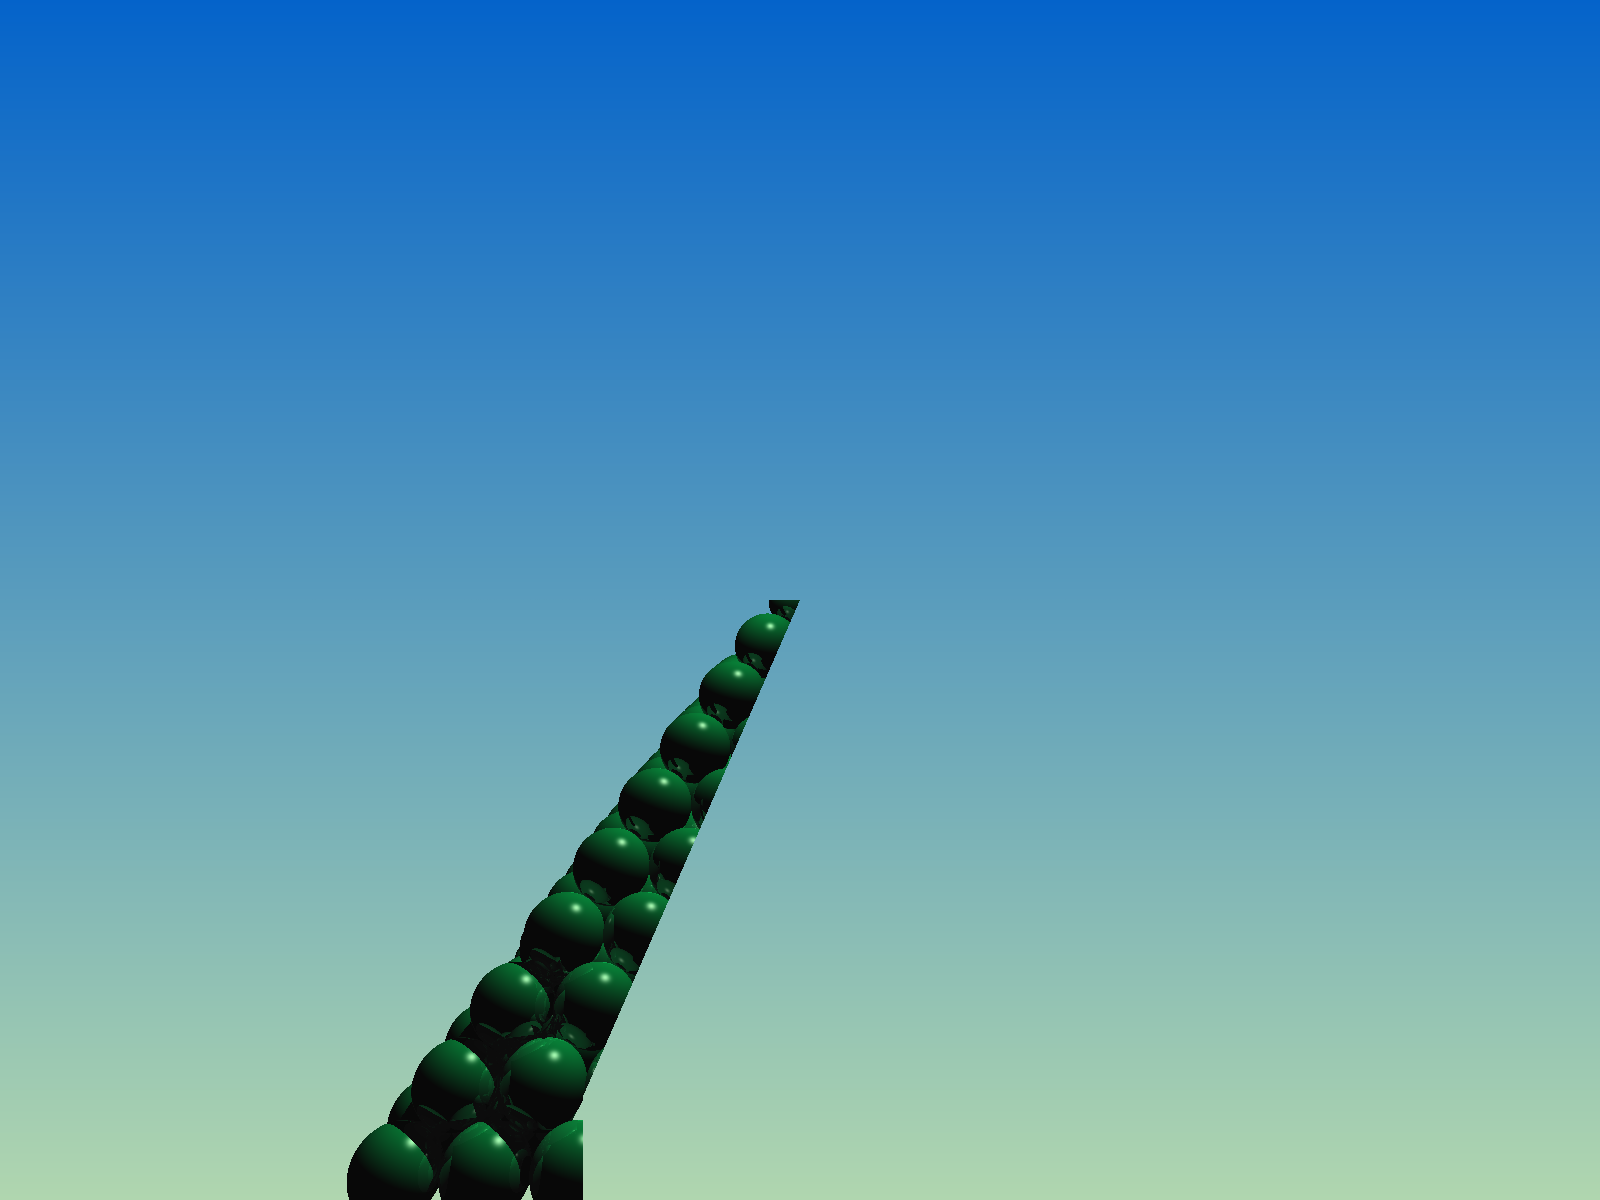
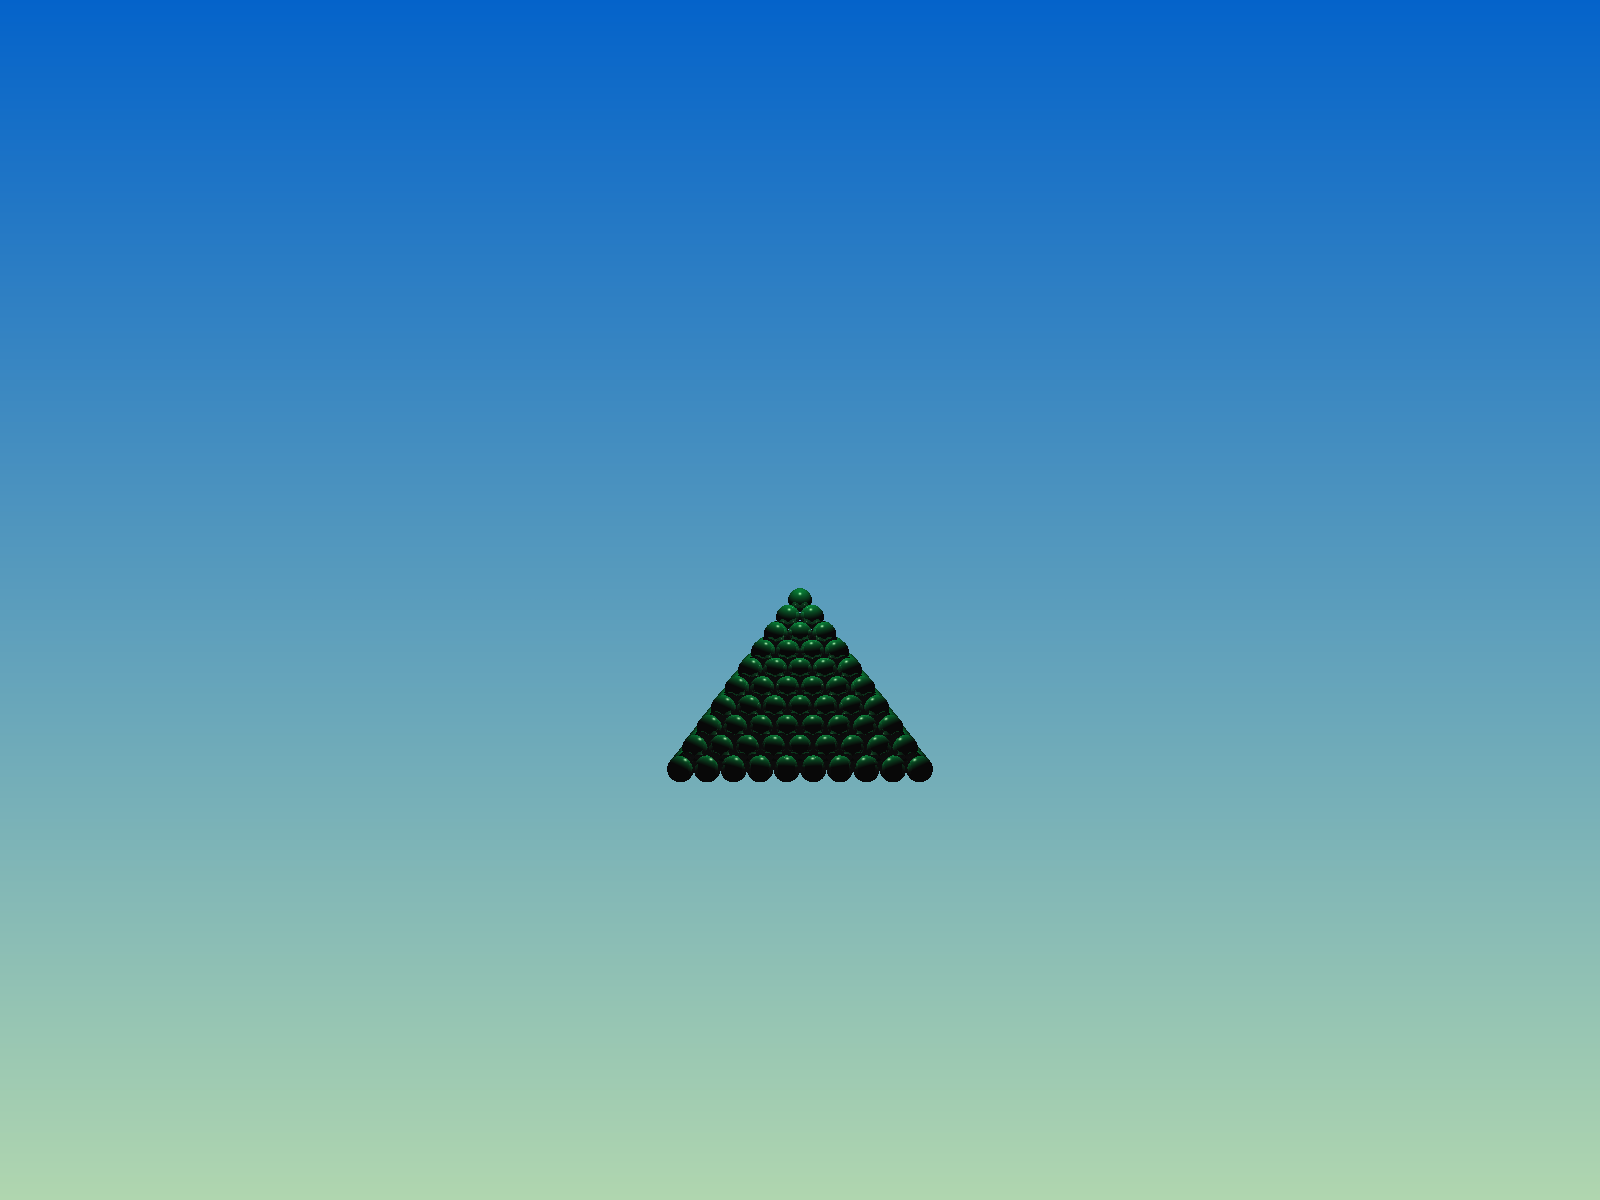
fixed box union logic bug

Changed region(s): [[0.2188, 0.4933, 0.5938, 1.0]]

diff --git a/src/aggregates/aggregate_bvh.cpp b/src/aggregates/aggregate_bvh.cpp
@@ -16,7 +16,8 @@ std::optional<Surfel> AggregateBVH::intersect(const Ray &r) const{
   std::optional<Surfel> s = std::nullopt;
   double closest_t = std::numeric_limits<double>::infinity();
 
-  std::vector<BVHNode*> nodes_to_visit; 
+  std::vector<BVHNode*> nodes_to_visit;
+  nodes_to_visit.reserve(20); 
   nodes_to_visit.push_back(tree_root);
   while(!nodes_to_visit.empty()){
     double hit_t1 = 0., hit_t2 = 0.;
@@ -24,7 +25,7 @@ std::optional<Surfel> AggregateBVH::intersect(const Ray &r) const{
     nodes_to_visit.pop_back();
     if(tovisit != nullptr && tovisit->box_node.intersect_p(r, hit_t1, hit_t2)){
       if(tovisit->children[0] == nullptr){
-        for(size_t i = 0; i < max_prims_per_node; i++){
+        for(size_t i = 0; i < tovisit->indexes.size(); i++){
           auto test_s = (*BVHNode::objectsptr)[tovisit->indexes[i]]->intersect(r);
           if(test_s && test_s->t < closest_t){
             s = test_s;
@@ -33,11 +34,11 @@ std::optional<Surfel> AggregateBVH::intersect(const Ray &r) const{
         }
       }
       else{
-        // if(hit_t1 > closest_t){
-        //   continue;
-        // }
-        nodes_to_visit.push_back(tovisit->children[1]);
+        if(hit_t1 > closest_t){
+          continue;
+        }
         nodes_to_visit.push_back(tovisit->children[0]);
+        nodes_to_visit.push_back(tovisit->children[1]);
       }
     }
   }
@@ -76,7 +77,7 @@ void AggregateBVH::construct_tree(BVHNode* b){
   if(b->indexes.size() <= max_prims_per_node){
     return;
   }
-  const auto cmp_func = axis_index_cmp[biggest_axis_in_vec(b->box_node.get_centroid())];
+  const auto cmp_func = axis_index_cmp[biggest_axis_in_vec(b->box_node.upper_limit-b->box_node.lower_limit)];
   std::sort(b->indexes.begin(), b->indexes.end(), cmp_func);
 
   const size_t vec_size = b->indexes.size();
@@ -84,12 +85,12 @@ void AggregateBVH::construct_tree(BVHNode* b){
   size_t mid_more = mid;
   size_t mid_less = mid;
   
-  if(mid < max_prims_per_node){
-    mid_more += max_prims_per_node-mid;
-  }
-  if(vec_size-mid < max_prims_per_node){
-    mid_less -= (max_prims_per_node-(vec_size-mid));
-  }
+  // if(mid < max_prims_per_node){
+  //   mid_more += max_prims_per_node-mid;
+  // }
+  // if(vec_size-mid < max_prims_per_node){
+  //   mid_less -= (max_prims_per_node-(vec_size-mid));
+  // }
   b->children[0] = new BVHNode(b->indexes, 0ul, mid_more);
   b->children[1] = new BVHNode(b->indexes, mid_less, vec_size);
   construct_tree(b->children[0]);
@@ -99,11 +100,11 @@ void AggregateBVH::construct_tree(BVHNode* b){
 AggregateBVH::BVHNode::BVHNode(std::vector<size_t> &father_indexes, size_t begin, size_t end){
   
   indexes.reserve(end - begin);
-  indexes.emplace_back(father_indexes[0]);
-  this->box_node = (*objectsptr)[begin]->get_bounding_box();
+  indexes.emplace_back(father_indexes[begin]);
+  this->box_node = (*objectsptr)[father_indexes[begin]]->get_bounding_box();
   for (size_t i = begin+1; i<end; i++) {
     indexes.emplace_back(father_indexes[i]);
-    this->box_node = unite((*objectsptr)[i]->get_bounding_box(), this->box_node);
+    this->box_node = unite((*objectsptr)[father_indexes[i]]->get_bounding_box(), this->box_node);
   }
   children[0] = nullptr;
   children[1] = nullptr;
